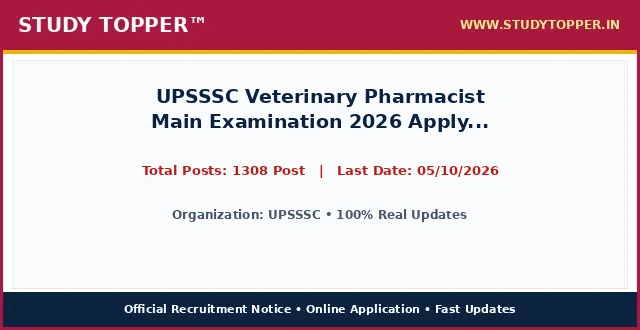
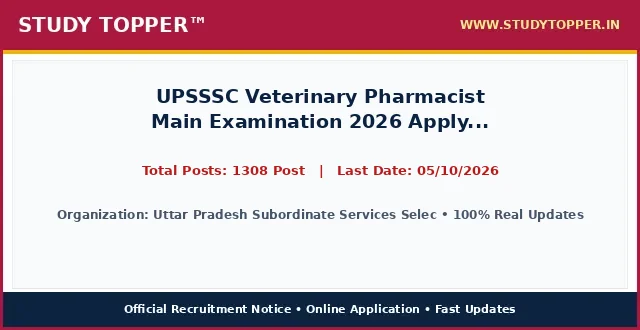
chore(lifecycle): daily auto-sort vacancies and update active dates

Changed region(s): [[0.0938, 0.6364, 0.9375, 0.6667]]

diff --git a/pages/upsssc-veterinary-18-exam-2026.html b/pages/upsssc-veterinary-18-exam-2026.html
@@ -987,12 +987,12 @@ ul.wp-block-latest-posts a:hover {
 <main class="site-main" id="main">
 <div class="gb-container gb-container-b39c368c">
 <h1 class="gb-headline gb-headline-e52a0102 gb-headline-text" style="font-size: 22px; font-weight: 700; color: #0000cd; text-align: left; margin: 8px 0 4px 0; line-height: 1.3; width: 100%; font-family: '-apple-system, BlinkMacSystemFont, 'Segoe UI', Roboto, 'Helvetica Neue', Arial, sans-serif', Times, serif, Hind, sans-serif;">UPSSSC Veterinary Pharmacist Main Examination 2026 Apply Online for 1308 Post</h1>
-<div class="gb-container gb-container-659bd175"><p style="color: #cd0808; font-weight: 700; font-size: 15px; margin: 2px 0 7px 0; text-align: left; font-family: '-apple-system, BlinkMacSystemFont, 'Segoe UI', Roboto, 'Helvetica Neue', Arial, sans-serif', Times, serif, Hind, sans-serif;">Post Date: August 22, 2026 11:55 AM</p></div>
-<p class="gb-headline gb-headline-550ae316 short_Details gb-headline-text" style="width: 100%; max-width: 100%; font-size: 16.8px; line-height: 1.55; color: #000000; text-align: justify; text-justify: inter-word; margin: 8px 0 14px 0; display: block; font-family: '-apple-system, BlinkMacSystemFont, 'Segoe UI', Roboto, 'Helvetica Neue', Arial, sans-serif', Times, serif, Hind, sans-serif;"><strong style="color: #0000cd;">UPSSSC</strong> has officially published the recruitment notice <strong style="color: #cd0808;">UPSSSC Veterinary Pharmacist Main Examination 2026 Apply Online for 1308 Post</strong> under notification number Official Advt 2026. Online applications are invited for 1308 Post across multiple departments and cadre positions. Interested candidates possessing the requisite educational qualifications and falling between 18 Years to 40 Years can complete their online registration before the application deadline of 05/10/2026. Applicants should read the eligibility criteria, category reservation rules, and exam scheme thoroughly before submitting applications.</p>
+<div class="gb-container gb-container-659bd175"><p style="color: #cd0808; font-weight: 700; font-size: 15px; margin: 2px 0 7px 0; text-align: left; font-family: '-apple-system, BlinkMacSystemFont, 'Segoe UI', Roboto, 'Helvetica Neue', Arial, sans-serif', Times, serif, Hind, sans-serif;">Post Date: August 22, 2026 01:07 PM</p></div>
+<p class="gb-headline gb-headline-550ae316 short_Details gb-headline-text" style="width: 100%; max-width: 100%; font-size: 16.8px; line-height: 1.55; color: #000000; text-align: justify; text-justify: inter-word; margin: 8px 0 14px 0; display: block; font-family: '-apple-system, BlinkMacSystemFont, 'Segoe UI', Roboto, 'Helvetica Neue', Arial, sans-serif', Times, serif, Hind, sans-serif;"><strong style="color: #0000cd;">Uttar Pradesh Subordinate Services Selection Commission (UPSSSC)</strong> has officially published the recruitment notice <strong style="color: #cd0808;">UPSSSC Veterinary Pharmacist Main Examination 2026 Apply Online for 1308 Post</strong> under notification number Official Notification 2026. Online applications are invited for 1308 Post across multiple departments and cadre positions. Interested candidates possessing the requisite educational qualifications and falling between 18 Years to 40 Years can complete their online registration before the application deadline of 05/10/2026. Applicants should read the eligibility criteria, category reservation rules, and exam scheme thoroughly before submitting applications.</p>
 <div class="gb-container gb-container-9849916c"><div class="social-buttons-compact" style="display: flex; justify-content: flex-start; align-items: center; gap: 10px; margin: 10px 0 16px 0; width: 100%;"><a class="social-btn-compact wa" href="https://whatsapp.com/channel/0029Va9xyz" rel="noopener" style="background-color: #00d084; color: #ffffff; padding: 10px 18px; border-radius: 4px; text-decoration: none; font-weight: bold; font-size: 15.5px; display: inline-flex; align-items: center; justify-content: center; height: auto;" target="_blank">WhatsApp</a><a class="social-btn-compact tg" href="https://t.me/studytopperofficial" rel="noopener" style="background-color: #0088cc; color: #ffffff; padding: 10px 18px; border-radius: 4px; text-decoration: none; font-weight: bold; font-size: 15.5px; display: inline-flex; align-items: center; justify-content: center; height: auto;" target="_blank">Telegram</a></div></div>
 <div class="gb-container gb-container-f58e6ca1" style="border: 2px solid #5b032f; border-radius: 4px; overflow: hidden; margin: 15px 0 20px 0; background-color: #ffffff; width: 100%; box-sizing: border-box;">
 <h2 class="gb-headline gb-headline-2ca5a791 gb-headline-text" style="font-size: 16px; font-weight: 700; text-align: center; color: #ef0303; line-height: 1.3; padding: 6px 4px; margin: 0; background: #ffffff; font-family: '-apple-system, BlinkMacSystemFont, 'Segoe UI', Roboto, 'Helvetica Neue', Arial, sans-serif', Times, serif, Hind, sans-serif;">UPSSSC Veterinary Pharmacist Main Examination 2026 Apply Online for 1308 Post &ndash; Latest Details &amp; Updates</h2>
-<h3 class="gb-headline gb-headline-7d5f86e8 gb-headline-text" style="font-size: 16px; font-weight: 600; text-align: center; color: #009703; line-height: 1.25; margin: 0; padding: 2px 4px 6px 4px; background: #ffffff; font-family: '-apple-system, BlinkMacSystemFont, 'Segoe UI', Roboto, 'Helvetica Neue', Arial, sans-serif', Times, serif, Hind, sans-serif;">UPSSSC : Details &amp; Summary</h3>
+<h3 class="gb-headline gb-headline-7d5f86e8 gb-headline-text" style="font-size: 16px; font-weight: 600; text-align: center; color: #009703; line-height: 1.25; margin: 0; padding: 2px 4px 6px 4px; background: #ffffff; font-family: '-apple-system, BlinkMacSystemFont, 'Segoe UI', Roboto, 'Helvetica Neue', Arial, sans-serif', Times, serif, Hind, sans-serif;">Uttar Pradesh Subordinate Services Selection Commission (UPSSSC) : Details &amp; Summary</h3>
 <p class="gb-headline gb-headline-79adf169 gb-headline-text" style="margin: 0 0 6px 0; font-family: '-apple-system, BlinkMacSystemFont, 'Segoe UI', Roboto, 'Helvetica Neue', Arial, sans-serif', Times, serif, Hind, sans-serif; text-align: center; font-size: 18px; font-weight: 700;"><a href="/" style="color: #0000ff; text-decoration: underline;">StudyTopper.in</a></p>
 
 <style id="st-post-boxes-responsive-css">
@@ -1025,7 +1025,7 @@ ul.wp-block-latest-posts a:hover {
     <div style="background-color: #5b032f; color: #ffffff; padding: 8px 10px; font-size: 20px; font-weight: 700; text-align: center; font-family: '-apple-system, BlinkMacSystemFont, 'Segoe UI', Roboto, 'Helvetica Neue', Arial, sans-serif', Times, serif, Hind, sans-serif;">Important Dates</div>
     <div style="padding: 12px 14px; background-color: #ffffff;">
       <ul style="padding-left: 20px; margin: 0; list-style-type: disc; text-align: left; font-size: 14pt; line-height: 1.6; font-family: '-apple-system, BlinkMacSystemFont, 'Segoe UI', Roboto, 'Helvetica Neue', Arial, sans-serif', Times, serif, Hind, sans-serif;">
-        <li><span style="font-size: 14pt;">Application Begin : <strong>14/09/2026</strong></span></li><li><span style="font-size: 14pt;">Last Date for Apply Online : <span style="color: #ff0000;"><strong>05/10/2026</strong></span></span></li><li><span style="font-size: 14pt;">Pay Exam Fee Last Date : <span style="color: #ff0000;"><strong>05/10/2026</strong></span></span></li><li><span style="font-size: 14pt;">Form Correction Last Date : <span style="color: #ff0000;"><strong>12/10/2026</strong></span></span></li><li><span style="font-size: 14pt;">UPSSSC Veterinary Pharmacist Main Exam Date : <strong>As per Schedule</strong></span></li><li><span style="font-size: 14pt;">Admit Card Available : <strong>Before Exam</strong></span></li><li><span style="font-size: 14pt;">Candidate Read the Notification Before Apply the Recruitment Application Form in UPSSSC Veterinary Pharmacist Mains Examination Advt. No. : <strong>18-Exam/2026 Recruitment 2026.</strong></span></li>
+        <li><span style="font-size: 14pt;">Application Begin : <strong>14/09/2026</strong></span></li><li><span style="font-size: 14pt;">Last Date for Apply Online : <span style="color: #ff0000;"><strong>05/10/2026</strong></span></span></li><li><span style="font-size: 14pt;">Pay Exam Fee Last Date : <span style="color: #ff0000;"><strong>05/10/2026</strong></span></span></li><li><span style="font-size: 14pt;">Form Correction Last Date : <span style="color: #ff0000;"><strong>12/10/2026</strong></span></span></li><li><span style="font-size: 14pt;">Exam City Available : <strong>Before Exam</strong></span></li><li><span style="font-size: 14pt;">Admit Card Available : <strong>Before Exam</strong></span></li>
       </ul>
     </div>
   </div>
@@ -1034,7 +1034,7 @@ ul.wp-block-latest-posts a:hover {
     <div style="background-color: #5b032f; color: #ffffff; padding: 8px 10px; font-size: 20px; font-weight: 700; text-align: center; font-family: '-apple-system, BlinkMacSystemFont, 'Segoe UI', Roboto, 'Helvetica Neue', Arial, sans-serif', Times, serif, Hind, sans-serif;">Application Fee</div>
     <div style="padding: 12px 14px; background-color: #ffffff;">
       <ul style="padding-left: 20px; margin: 0; list-style-type: disc; text-align: left; font-size: 14pt; line-height: 1.6; font-family: '-apple-system, BlinkMacSystemFont, 'Segoe UI', Roboto, 'Helvetica Neue', Arial, sans-serif', Times, serif, Hind, sans-serif;">
-        <li><span style="font-size: 14pt;">General (UR) / OBC / EWS : <strong>25/-</strong></span></li><li><span style="font-size: 14pt;">SC / ST : <strong>25/-</strong></span></li><li><span style="font-size: 14pt;">PH (Divyang) : <strong>25/-</strong></span></li><li><span style="font-size: 14pt;">Candidates can apply online through the official recruitment link available on SarkariResult.com (Since 2012) – Official Website of Sarkari Result® UPSSSC Veterinary Pharmacist Online Form 2026 | Advt. No. : <strong>18-Exam/2026.</strong></span></li>
+        <li><span style="font-size: 14pt;">General (UR) / OBC / EWS : <strong>25/-</strong></span></li><li><span style="font-size: 14pt;">SC / ST : <strong>25/-</strong></span></li><li><span style="font-size: 14pt;">PH (Divyang) : <strong>25/-</strong></span></li><li><span style="font-size: 14pt;">Payment Mode : <strong>Pay the Examination Fee Through UPI, Debit Card, Credit Card and Net Banking Mode Only.</strong></span></li>
       </ul>
       <div style="margin-top: 10px; font-size: 14pt; line-height: 1.5; color: #000000; border-top: 1px dashed #ccc; padding-top: 8px; font-family: '-apple-system, BlinkMacSystemFont, 'Segoe UI', Roboto, 'Helvetica Neue', Arial, sans-serif', Times, serif, Hind, sans-serif;">
         <strong>Mode of Payment / Access:</strong> Online via Net Banking, Debit Card, Credit Card, UPI or Free Candidate Portal.
@@ -1047,10 +1047,10 @@ ul.wp-block-latest-posts a:hover {
 <div class="st-grid-row" style="display: flex; flex-wrap: wrap; width: 100%; border-top: 2px solid #5b032f; margin: 0; padding: 0; box-sizing: border-box;">
   <!-- Left Col: Age Limits -->
   <div class="st-col-half st-col-border-right" style="box-sizing: border-box; vertical-align: top;">
-    <div style="background-color: #046132; color: #ffffff; padding: 8px 10px; font-size: 17px; font-weight: 700; text-align: center; font-family: '-apple-system, BlinkMacSystemFont, 'Segoe UI', Roboto, 'Helvetica Neue', Arial, sans-serif', Times, serif, Hind, sans-serif;">UPSSSC : Age Limits As On 01 August 2026</div>
+    <div style="background-color: #046132; color: #ffffff; padding: 8px 10px; font-size: 17px; font-weight: 700; text-align: center; font-family: '-apple-system, BlinkMacSystemFont, 'Segoe UI', Roboto, 'Helvetica Neue', Arial, sans-serif', Times, serif, Hind, sans-serif;">Uttar Pradesh Subordinate Services Selection Commission (UPSSSC) : Age Limits As On 01/07/2026</div>
     <div style="padding: 12px 14px; background-color: #ffffff;">
       <ul style="padding-left: 20px; margin: 0; list-style-type: disc; text-align: left; font-size: 14pt; line-height: 1.6; font-family: '-apple-system, BlinkMacSystemFont, 'Segoe UI', Roboto, 'Helvetica Neue', Arial, sans-serif', Times, serif, Hind, sans-serif;">
-        <li><span style="font-size: 14pt;">Minimum Age : <strong>18 Years</strong></span></li><li><span style="font-size: 14pt;">Maximum Age : <strong>40 Years</strong></span></li><li><span style="font-size: 14pt;">Age Relaxation Extra as per UPSSSC Veterinary Pharmacist Mains Recruitment Rules Advt. No. 18 : <strong>Exam/2026.</strong></span></li>
+        <li><span style="font-size: 14pt;">Minimum Age : <strong>18 Years</strong></span></li><li><span style="font-size: 14pt;">Maximum Age : <strong>40 Years</strong></span></li><li><span style="font-size: 14pt;">Age Relaxation : <strong>Age Relaxation Extra as per UPSSSC Veterinary Pharmacist Mains Recruitment Rules Advt. No. 18-Exam/2026.</strong></span></li>
       </ul>
     </div>
   </div>
@@ -1070,7 +1070,19 @@ ul.wp-block-latest-posts a:hover {
 <div class="gb-container gb-container-ec1f6e4c">
 <h2 class="gb-headline gb-headline-c7683bda gb-headline-text" style="font-size: 24px; font-weight: 800; text-align: center; color: #ef0303; line-height: 1.35; margin: 20px 0 12px 0; padding: 6px 4px; font-family: '-apple-system, BlinkMacSystemFont, 'Segoe UI', Roboto, 'Helvetica Neue', Arial, sans-serif', Times, serif, Hind, sans-serif;">UPSSSC Veterinary Pharmacist Main Examination 2026 Apply Online for 1308 Post : Key Overview &amp; Matrix</h2>
 <div class="gb-headline gb-headline-60ccea19 gb-headline-text">
-
+<table style="border-collapse: collapse; width: 100%; height: 150px;">
+<tbody>
+<tr style="height: 25px;">
+<td colspan="2" style="width: 50%; text-align: center; height: 25px;"><span style="background-color: #000080; color: #ffffff; font-size: 14pt;"><strong> Uttar Pradesh Subordinate Services Selection Commission (UPSSSC) : Category Wise Vacancy Details </strong></span></td>
+</tr>
+<tr style="height: 25px;">
+<td style="width: 50%; height: 25px; text-align: center;"><span style="font-size: 14pt;"><strong>Category / Particulars</strong></span></td>
+<td style="width: 50%; height: 25px; text-align: center;"><span style="font-size: 14pt;"><strong>Count / Status</strong></span></td>
+</tr>
+<tr><td style="text-align: center;">Total Post</td><td style="text-align: center; font-weight: bold; color: #ff0000;">1308</td></tr><tr><td style="text-align: center;">UPSSSC Veterinary Pharmacist Main Examination Eligibility</td><td style="text-align: center; font-weight: normal; color: inherit;">UPSSSC PET 2025 Score Card 10+2 Intermediate with Biology OR Equivalent Degree. 2 or 3 Month Diploma in Veterinary Pharmacy . Knowledge of Hindi Devnagri Lipi More Eligibility Details Read the Notification.</td></tr><tr><td style="text-align: center;">UR</td><td style="text-align: center; font-weight: normal; color: inherit;">576</td></tr><tr><td style="text-align: center;">EWS</td><td style="text-align: center; font-weight: normal; color: inherit;">130</td></tr><tr><td style="text-align: center;">OBC</td><td style="text-align: center; font-weight: normal; color: inherit;">359</td></tr><tr><td style="text-align: center;">SC</td><td style="text-align: center; font-weight: normal; color: inherit;">237</td></tr><tr><td style="text-align: center;">ST</td><td style="text-align: center; font-weight: normal; color: inherit;">06</td></tr><tr><td style="text-align: center;">Total</td><td style="text-align: center; font-weight: bold; color: #ff0000;">1308</td></tr>
+</tbody>
+</table>
+<p>&nbsp;</p>
 <table style="border-collapse: collapse; width: 100%;">
 <tbody>
 <tr>
@@ -1079,9 +1091,9 @@ ul.wp-block-latest-posts a:hover {
 <th style="background-color: #f53c00; color: #ffffff; padding: 6px 10px; text-align: center; border: 1px solid #d35400; font-size: 15px; font-weight: 700; font-family: '-apple-system, BlinkMacSystemFont, 'Segoe UI', Roboto, 'Helvetica Neue', Arial, sans-serif', Times, serif, Hind, sans-serif;">Eligibility Criteria</th>
 </tr>
 <tr>
-<td style="padding: 8px; border: 1px solid #ddd; font-weight: bold;">UPSSSC Recruitment</td>
-<td style="padding: 8px; border: 1px solid #ddd; text-align: center; font-weight: bold;">1308 Post</td>
-<td style="padding: 8px; border: 1px solid #ddd;">Please refer to the official notification linked below for detailed educational qualifications.</td>
+<td style="padding: 8px; border: 1px solid #ddd; font-weight: bold;">UPSSSC Veterinary Pharmacist</td>
+<td style="padding: 8px; border: 1px solid #ddd; text-align: center; font-weight: bold;">1308</td>
+<td style="padding: 8px; border: 1px solid #ddd;">UPSSSC PET 2025 Score Card 10+2 Intermediate with Biology OR Equivalent Degree. 2 or 3 Month Diploma in Veterinary Pharmacy . Knowledge of Hindi Devnagri Lipi More Eligibility Details Read the Notification.</td>
 </tr>
 </tbody>
 </table>
@@ -1093,10 +1105,10 @@ ul.wp-block-latest-posts a:hover {
 <table style="border-collapse: collapse; width: 100%;">
 <tbody>
 <tr>
-<td style="width: 100%; text-align: center;"><span style="background-color: #000080; color: #ffffff; font-size: 14pt; font-weight: bold; display: block; padding: 6px;"> How to Fill UPSSSC Online Application Form </span></td>
+<td style="width: 100%; text-align: center;"><span style="background-color: #000080; color: #ffffff; font-size: 14pt; font-weight: bold; display: block; padding: 6px;"> How to Fill Uttar Pradesh Subordinate Services Selection Commission (UPSSSC) Online Application Form </span></td>
 </tr>
 <tr>
-<td style="width: 100%;"><ol style="margin:0; padding-left:18px; text-align: left !important; list-style-position: outside !important"><li style="margin-bottom:6px; text-align: left !important;">Read the official recruitment notification carefully before applying.</li><li style="margin-bottom:6px; text-align: left !important;">Keep all basic documents ready: ID Proof, Address Details, Basic Details.</li><li style="margin-bottom:6px; text-align: left !important;">Ready your scanned documents like Photo, Signature, ID Proof, etc.</li><li style="margin-bottom:6px; text-align: left !important;">Click on the 'Apply Online' link given in the Important Links section below.</li><li style="margin-bottom:6px; text-align: left !important;">Fill out all the columns in the application form accurately.</li><li style="margin-bottom:6px; text-align: left !important;">Pay the required application fee if applicable.</li><li style="margin-bottom:6px; text-align: left !important;">Take a printout of the final submitted application form.</li><li style="margin-bottom:6px; text-align: left !important;">Resize candidate photograph and signature accurately using the <a href="https://indtool.in" rel="noopener" target="_blank"><strong>StudyTopper Tools</strong></a> image resizer at indtool.in.</li></ol></td>
+<td style="width: 100%;"><ol style="margin:0; padding-left:18px; text-align: left !important; list-style-position: outside !important"><li style="margin-bottom:6px; text-align: left !important;">Uttar Pradesh Subordinate Service Selection Commission (UPSSSC) Main Recruitment for Veterinary Pharmacist Post Candidate Can Apply Between</li><li style="margin-bottom:6px; text-align: left !important;">14/09/2026 to 05/10/2026</li><li style="margin-bottom:6px; text-align: left !important;">Candidate Read the Notification Before Apply the Recruitment Application Form in UPSSSC Veterinary Pharmacist Mains Examination Advt. No.-18-Exam/2026 Recruitment 2026.</li><li style="margin-bottom:6px; text-align: left !important;">Kindly Check and Collect the All Document – Eligibility, ID Proof, Address Details, Basic Details.</li><li style="margin-bottom:6px; text-align: left !important;">Kindly Ready Scan Document Related to Recruitment Form – Photo, Sign, ID Proof, Etc.</li><li style="margin-bottom:6px; text-align: left !important;">Before Submit the Application Form Must Check the Preview and All Column Carefully.</li><li style="margin-bottom:6px; text-align: left !important;">If Candidate Required to Paying the Application Fee Must Submit. If You have Not the Required Application Fees Your Form is Not Completed.</li><li style="margin-bottom:6px; text-align: left !important;">Take A Print Out of Final Submitted Form.</li><li style="margin-bottom:6px; text-align: left !important;">Resize candidate photograph and signature accurately using the <a href="https://indtool.in" rel="noopener" target="_blank"><strong>StudyTopper Tools</strong></a> image resizer at indtool.in.</li></ol></td>
 </tr>
 </tbody>
 </table>
@@ -1104,7 +1116,7 @@ ul.wp-block-latest-posts a:hover {
 <table style="border-collapse: collapse; width: 100%;">
 <tbody>
 <tr>
-<td style="width: 100%; text-align: center;"><span style="background-color: #000080; color: #ffffff; font-size: 14pt;"><strong><span style="color: #ffffff;"> UPSSSC Recruitment 2026 : Mode Of Selection </span></strong></span></td>
+<td style="width: 100%; text-align: center;"><span style="background-color: #000080; color: #ffffff; font-size: 14pt;"><strong><span style="color: #ffffff;"> Uttar Pradesh Subordinate Services Selection Commission (UPSSSC) Recruitment 2026 : Mode Of Selection </span></strong></span></td>
 </tr>
 <tr>
 <td style="width: 100%;">
@@ -1144,42 +1156,74 @@ ul.wp-block-latest-posts a:hover {
 
 <tr style="border-bottom: 1px solid #000000; background-color: #fff37a;">
 <td style="width: 50%; padding: 14px 16px; border-right: 1px solid #000000; text-align: center;">
-<span style="font-size: 19px; font-weight: 800; color: #000000; font-family: '-apple-system, BlinkMacSystemFont, 'Segoe UI', Roboto, 'Helvetica Neue', Arial, sans-serif', Times, serif, Hind, sans-serif;">Apply Online Link</span>
+<span style="font-size: 19px; font-weight: 800; color: #000000; font-family: '-apple-system, BlinkMacSystemFont, 'Segoe UI', Roboto, 'Helvetica Neue', Arial, sans-serif', Times, serif, Hind, sans-serif;">Sarkari Result Android App</span>
 </td>
 <td style="width: 50%; padding: 14px 16px; text-align: center;">
-<span style="font-size: 20px; font-weight: 800; font-family: '-apple-system, BlinkMacSystemFont, 'Segoe UI', Roboto, 'Helvetica Neue', Arial, sans-serif', Times, serif, Hind, sans-serif;"><a href="https://upsssc.gov.in/" aria-label="Click Here for Apply Online Link - UPSSSC Veterinary Pharmacist Main Examination 2026 Apply Online for 1308 Post" rel="noopener noreferrer" style="color: #0000ef; font-weight: 800; text-decoration: none;" target="_blank">Click Here</a></span>
+<span style="font-size: 20px; font-weight: 800; font-family: '-apple-system, BlinkMacSystemFont, 'Segoe UI', Roboto, 'Helvetica Neue', Arial, sans-serif', Times, serif, Hind, sans-serif;"><a href="https://itunes.apple.com/us/app/sarkari-result/id1051363935?ls=1&mt=8" aria-label="Click Here for Sarkari Result Android App - UPSSSC Veterinary Pharmacist Main Examination 2026 Apply Online for 1308 Post" rel="noopener noreferrer" style="color: #0000ef; font-weight: 800; text-decoration: none;" target="_blank">Click Here</a></span>
 </td>
 </tr>
 <tr style="border-bottom: 1px solid #000000; background-color: #fff37a;">
 <td style="width: 50%; padding: 14px 16px; border-right: 1px solid #000000; text-align: center;">
-<span style="font-size: 19px; font-weight: 800; color: #000000; font-family: '-apple-system, BlinkMacSystemFont, 'Segoe UI', Roboto, 'Helvetica Neue', Arial, sans-serif', Times, serif, Hind, sans-serif;">Check Official Notification</span>
+<span style="font-size: 19px; font-weight: 800; color: #000000; font-family: '-apple-system, BlinkMacSystemFont, 'Segoe UI', Roboto, 'Helvetica Neue', Arial, sans-serif', Times, serif, Hind, sans-serif;">Apply Online</span>
 </td>
 <td style="width: 50%; padding: 14px 16px; text-align: center;">
-<span style="font-size: 20px; font-weight: 800; font-family: '-apple-system, BlinkMacSystemFont, 'Segoe UI', Roboto, 'Helvetica Neue', Arial, sans-serif', Times, serif, Hind, sans-serif;"><a href="https://upsssc.gov.in/" aria-label="Click Here for Check Official Notification - UPSSSC Veterinary Pharmacist Main Examination 2026 Apply Online for 1308 Post" rel="noopener noreferrer" style="color: #0000ef; font-weight: 800; text-decoration: none;" target="_blank">Click Here</a></span>
+<span style="font-size: 20px; font-weight: 800; font-family: '-apple-system, BlinkMacSystemFont, 'Segoe UI', Roboto, 'Helvetica Neue', Arial, sans-serif', Times, serif, Hind, sans-serif;"><a href="https://upsssc.gov.in/" aria-label="Click Here for Apply Online - UPSSSC Veterinary Pharmacist Main Examination 2026 Apply Online for 1308 Post" rel="noopener noreferrer" style="color: #0000ef; font-weight: 800; text-decoration: none;" target="_blank">Click Here</a></span>
 </td>
 </tr>
 <tr style="border-bottom: 1px solid #000000; background-color: #fff37a;">
 <td style="width: 50%; padding: 14px 16px; border-right: 1px solid #000000; text-align: center;">
-<span style="font-size: 19px; font-weight: 800; color: #000000; font-family: '-apple-system, BlinkMacSystemFont, 'Segoe UI', Roboto, 'Helvetica Neue', Arial, sans-serif', Times, serif, Hind, sans-serif;">Photo / Sign Resizer Tool</span>
+<span style="font-size: 19px; font-weight: 800; color: #000000; font-family: '-apple-system, BlinkMacSystemFont, 'Segoe UI', Roboto, 'Helvetica Neue', Arial, sans-serif', Times, serif, Hind, sans-serif;">Download Syllabus</span>
 </td>
 <td style="width: 50%; padding: 14px 16px; text-align: center;">
-<span style="font-size: 20px; font-weight: 800; font-family: '-apple-system, BlinkMacSystemFont, 'Segoe UI', Roboto, 'Helvetica Neue', Arial, sans-serif', Times, serif, Hind, sans-serif;"><a href="https://indtool.in" aria-label="Click Here for Photo / Sign Resizer Tool - UPSSSC Veterinary Pharmacist Main Examination 2026 Apply Online for 1308 Post" rel="noopener noreferrer" style="color: #0000ef; font-weight: 800; text-decoration: none;" target="_blank">Click Here</a></span>
+<span style="font-size: 20px; font-weight: 800; font-family: '-apple-system, BlinkMacSystemFont, 'Segoe UI', Roboto, 'Helvetica Neue', Arial, sans-serif', Times, serif, Hind, sans-serif;"><a href="https://doc.sarkariresults.org.in/UPSSSC_Veterinary%20Pharmacist_Syllabus%20(1).pdf" aria-label="Click Here for Download Syllabus - UPSSSC Veterinary Pharmacist Main Examination 2026 Apply Online for 1308 Post" rel="noopener noreferrer" style="color: #0000ef; font-weight: 800; text-decoration: none;" target="_blank">Click Here</a></span>
 </td>
 </tr>
 <tr style="border-bottom: 1px solid #000000; background-color: #fff37a;">
+<td style="width: 50%; padding: 14px 16px; border-right: 1px solid #000000; text-align: center;">
+<span style="font-size: 19px; font-weight: 800; color: #000000; font-family: '-apple-system, BlinkMacSystemFont, 'Segoe UI', Roboto, 'Helvetica Neue', Arial, sans-serif', Times, serif, Hind, sans-serif;">Download Notification</span>
+</td>
+<td style="width: 50%; padding: 14px 16px; text-align: center;">
+<span style="font-size: 20px; font-weight: 800; font-family: '-apple-system, BlinkMacSystemFont, 'Segoe UI', Roboto, 'Helvetica Neue', Arial, sans-serif', Times, serif, Hind, sans-serif;"><a href="https://doc.sarkariresults.org.in/SarkariResult.Com_UPSSSC_Veterinary%20Pharmacist_Notification.pdf" aria-label="Click Here for Download Notification - UPSSSC Veterinary Pharmacist Main Examination 2026 Apply Online for 1308 Post" rel="noopener noreferrer" style="color: #0000ef; font-weight: 800; text-decoration: none;" target="_blank">Click Here</a></span>
+</td>
+</tr>
+<tr style="border-bottom: 1px solid #000000; background-color: #fff37a;">
+<td style="width: 50%; padding: 14px 16px; border-right: 1px solid #000000; text-align: center;">
+<span style="font-size: 19px; font-weight: 800; color: #000000; font-family: '-apple-system, BlinkMacSystemFont, 'Segoe UI', Roboto, 'Helvetica Neue', Arial, sans-serif', Times, serif, Hind, sans-serif;">Signature Resizer, PDF Compress, Age Calculator and More Tools</span>
+</td>
+<td style="width: 50%; padding: 14px 16px; text-align: center;">
+<span style="font-size: 20px; font-weight: 800; font-family: '-apple-system, BlinkMacSystemFont, 'Segoe UI', Roboto, 'Helvetica Neue', Arial, sans-serif', Times, serif, Hind, sans-serif;"><a href="https://sarkariresult.tools/" aria-label="Click Here for Signature Resizer, PDF Compress, Age Calculator and More Tools - UPSSSC Veterinary Pharmacist Main Examination 2026 Apply Online for 1308 Post" rel="noopener noreferrer" style="color: #0000ef; font-weight: 800; text-decoration: none;" target="_blank">Click Here</a></span>
+</td>
+</tr>
+<tr style="border-bottom: 1px solid #000000; background-color: #fff37a;">
+<td style="width: 50%; padding: 14px 16px; border-right: 1px solid #000000; text-align: center;">
+<span style="font-size: 19px; font-weight: 800; color: #000000; font-family: '-apple-system, BlinkMacSystemFont, 'Segoe UI', Roboto, 'Helvetica Neue', Arial, sans-serif', Times, serif, Hind, sans-serif;">Join Sarkari Result Channel</span>
+</td>
+<td style="width: 50%; padding: 14px 16px; text-align: center;">
+<span style="font-size: 20px; font-weight: 800; font-family: '-apple-system, BlinkMacSystemFont, 'Segoe UI', Roboto, 'Helvetica Neue', Arial, sans-serif', Times, serif, Hind, sans-serif;"><a href="https://t.me/SarkariResult2012" aria-label="Click Here for Join Sarkari Result Channel - UPSSSC Veterinary Pharmacist Main Examination 2026 Apply Online for 1308 Post" rel="noopener noreferrer" style="color: #0000ef; font-weight: 800; text-decoration: none;" target="_blank">Click Here</a></span>
+</td>
+</tr>
+<tr style="border-bottom: 1px solid #000000; background-color: #fff37a;">
+<td style="width: 50%; padding: 14px 16px; border-right: 1px solid #000000; text-align: center;">
+<span style="font-size: 19px; font-weight: 800; color: #000000; font-family: '-apple-system, BlinkMacSystemFont, 'Segoe UI', Roboto, 'Helvetica Neue', Arial, sans-serif', Times, serif, Hind, sans-serif;">Join Sarkari Result Channel</span>
+</td>
+<td style="width: 50%; padding: 14px 16px; text-align: center;">
+<span style="font-size: 20px; font-weight: 800; font-family: '-apple-system, BlinkMacSystemFont, 'Segoe UI', Roboto, 'Helvetica Neue', Arial, sans-serif', Times, serif, Hind, sans-serif;"><a href="https://whatsapp.com/channel/0029Va5IElwBlHpVBd6i5a18" aria-label="Click Here for Join Sarkari Result Channel - UPSSSC Veterinary Pharmacist Main Examination 2026 Apply Online for 1308 Post" rel="noopener noreferrer" style="color: #0000ef; font-weight: 800; text-decoration: none;" target="_blank">Click Here</a></span>
+</td>
+</tr>
+<tr style="border-bottom: 1px solid #000000; background-color: #fff37a;">
+<td style="width: 50%; padding: 14px 16px; border-right: 1px solid #000000; text-align: center;">
+<span style="font-size: 19px; font-weight: 800; color: #000000; font-family: '-apple-system, BlinkMacSystemFont, 'Segoe UI', Roboto, 'Helvetica Neue', Arial, sans-serif', Times, serif, Hind, sans-serif;">Official Website</span>
+</td>
+<td style="width: 50%; padding: 14px 16px; text-align: center;">
+<span style="font-size: 20px; font-weight: 800; font-family: '-apple-system, BlinkMacSystemFont, 'Segoe UI', Roboto, 'Helvetica Neue', Arial, sans-serif', Times, serif, Hind, sans-serif;"><a href="https://upsssc.gov.in/" aria-label="Click Here for Official Website - UPSSSC Veterinary Pharmacist Main Examination 2026 Apply Online for 1308 Post" rel="noopener noreferrer" style="color: #0000ef; font-weight: 800; text-decoration: none;" target="_blank">Click Here</a></span>
+</td>
+</tr>
+<tr style=" background-color: #fff37a;">
 <td style="width: 50%; padding: 14px 16px; border-right: 1px solid #000000; text-align: center;">
 <span style="font-size: 19px; font-weight: 800; color: #000000; font-family: '-apple-system, BlinkMacSystemFont, 'Segoe UI', Roboto, 'Helvetica Neue', Arial, sans-serif', Times, serif, Hind, sans-serif;">Check Sarkari Result</span>
 </td>
 <td style="width: 50%; padding: 14px 16px; text-align: center;">
 <span style="font-size: 20px; font-weight: 800; font-family: '-apple-system, BlinkMacSystemFont, 'Segoe UI', Roboto, 'Helvetica Neue', Arial, sans-serif', Times, serif, Hind, sans-serif;"><a href="/" aria-label="Click Here for Check Sarkari Result - UPSSSC Veterinary Pharmacist Main Examination 2026 Apply Online for 1308 Post" rel="noopener noreferrer" style="color: #0000ef; font-weight: 800; text-decoration: none;" >Click Here</a></span>
-</td>
-</tr>
-<tr style=" background-color: #fff37a;">
-<td style="width: 50%; padding: 14px 16px; border-right: 1px solid #000000; text-align: center;">
-<span style="font-size: 19px; font-weight: 800; color: #000000; font-family: '-apple-system, BlinkMacSystemFont, 'Segoe UI', Roboto, 'Helvetica Neue', Arial, sans-serif', Times, serif, Hind, sans-serif;">UPSSSC Website</span>
-</td>
-<td style="width: 50%; padding: 14px 16px; text-align: center;">
-<span style="font-size: 20px; font-weight: 800; font-family: '-apple-system, BlinkMacSystemFont, 'Segoe UI', Roboto, 'Helvetica Neue', Arial, sans-serif', Times, serif, Hind, sans-serif;"><a href="https://upsssc.gov.in/" aria-label="Click Here for UPSSSC Website - UPSSSC Veterinary Pharmacist Main Examination 2026 Apply Online for 1308 Post" rel="noopener noreferrer" style="color: #0000ef; font-weight: 800; text-decoration: none;" target="_blank">Click Here</a></span>
 </td>
 </tr>
 </tbody>
@@ -1193,7 +1237,7 @@ ul.wp-block-latest-posts a:hover {
   <div style="font-size: 14.5px; line-height: 1.65; color: #222222;">
     <p style="margin: 0 0 4px 0;"><strong style="color: #000080;">Q1. What is the last date to apply for UPSSSC Veterinary Pharmacist Main Examination 2026 Apply Online for 1308 Post?</strong></p>
 <p style="margin: 0 0 16px 0; color: #333333; line-height: 1.6;">Ans. The last date for online submission of application is 05/10/2026.</p><p style="margin: 0 0 4px 0;"><strong style="color: #000080;">Q2. What is the age limit for UPSSSC Veterinary Pharmacist Main Examination 2026 Apply Online for 1308 Post?</strong></p>
-<p style="margin: 0 0 16px 0; color: #333333; line-height: 1.6;">Ans. Candidate age should generally be between 18 Years and 40 Years as on 01 August 2026. Age relaxation is applicable per rules.</p><p style="margin: 0 0 4px 0;"><strong style="color: #000080;">Q3. What is the application fee for UPSSSC Veterinary Pharmacist Main Examination 2026 Apply Online for 1308 Post?</strong></p>
+<p style="margin: 0 0 16px 0; color: #333333; line-height: 1.6;">Ans. Candidate age should generally be between 18 Years and 40 Years as on 01/07/2026. Age relaxation is applicable per rules.</p><p style="margin: 0 0 4px 0;"><strong style="color: #000080;">Q3. What is the application fee for UPSSSC Veterinary Pharmacist Main Examination 2026 Apply Online for 1308 Post?</strong></p>
 <p style="margin: 0 0 16px 0; color: #333333; line-height: 1.6;">Ans. Application fee varies by category (e.g., General/OBC: Rs. 100/-, SC/ST/PwD: Exempted).</p><p style="margin: 0 0 4px 0;"><strong style="color: #000080;">Q4. How many total posts are available in UPSSSC Veterinary Pharmacist Main Examination 2026 Apply Online for 1308 Post?</strong></p>
 <p style="margin: 0 0 16px 0; color: #333333; line-height: 1.6;">Ans. A total of 1308 Post have been officially announced for this recruitment drive.</p><p style="margin: 0 0 4px 0;"><strong style="color: #000080;">Q5. How can I apply online for UPSSSC Veterinary Pharmacist Main Examination 2026 Apply Online for 1308 Post?</strong></p>
 <p style="margin: 0 0 0 0; color: #333333; line-height: 1.6;">Ans. Eligible candidates can click the 'Apply Online' link in the Important Links table, register, fill details, resize photo/signature via indtool.in, and submit before 05/10/2026.</p>
